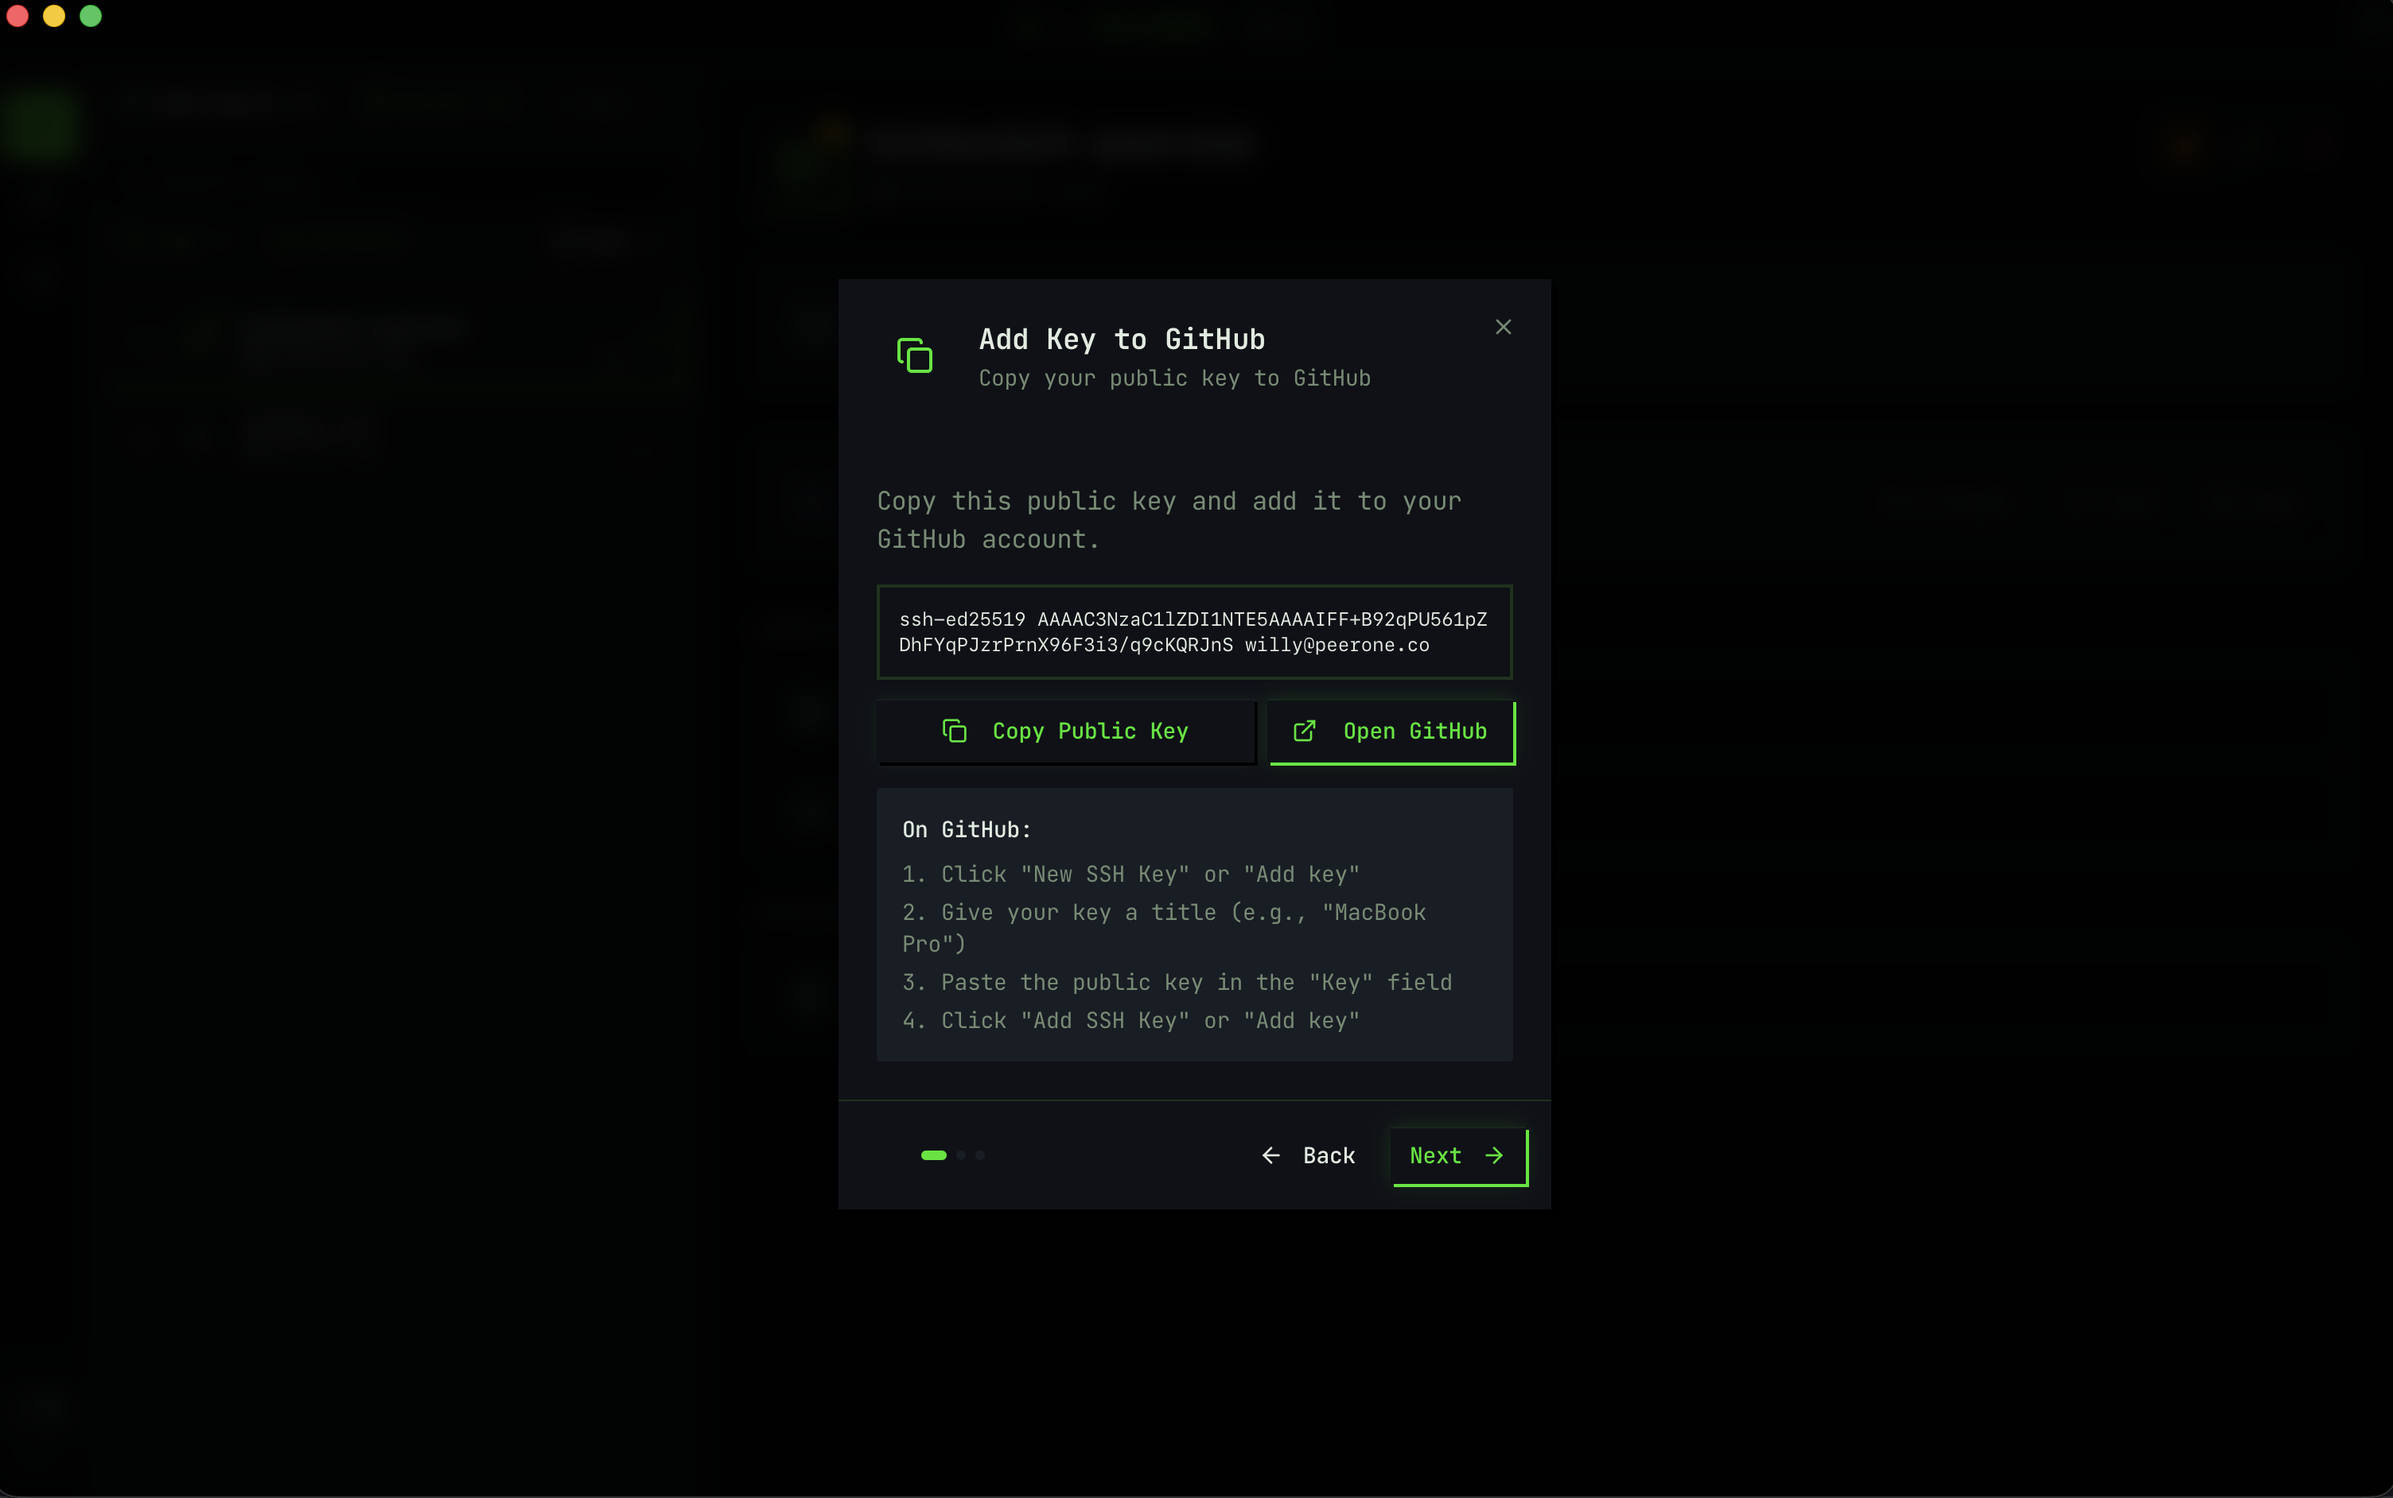
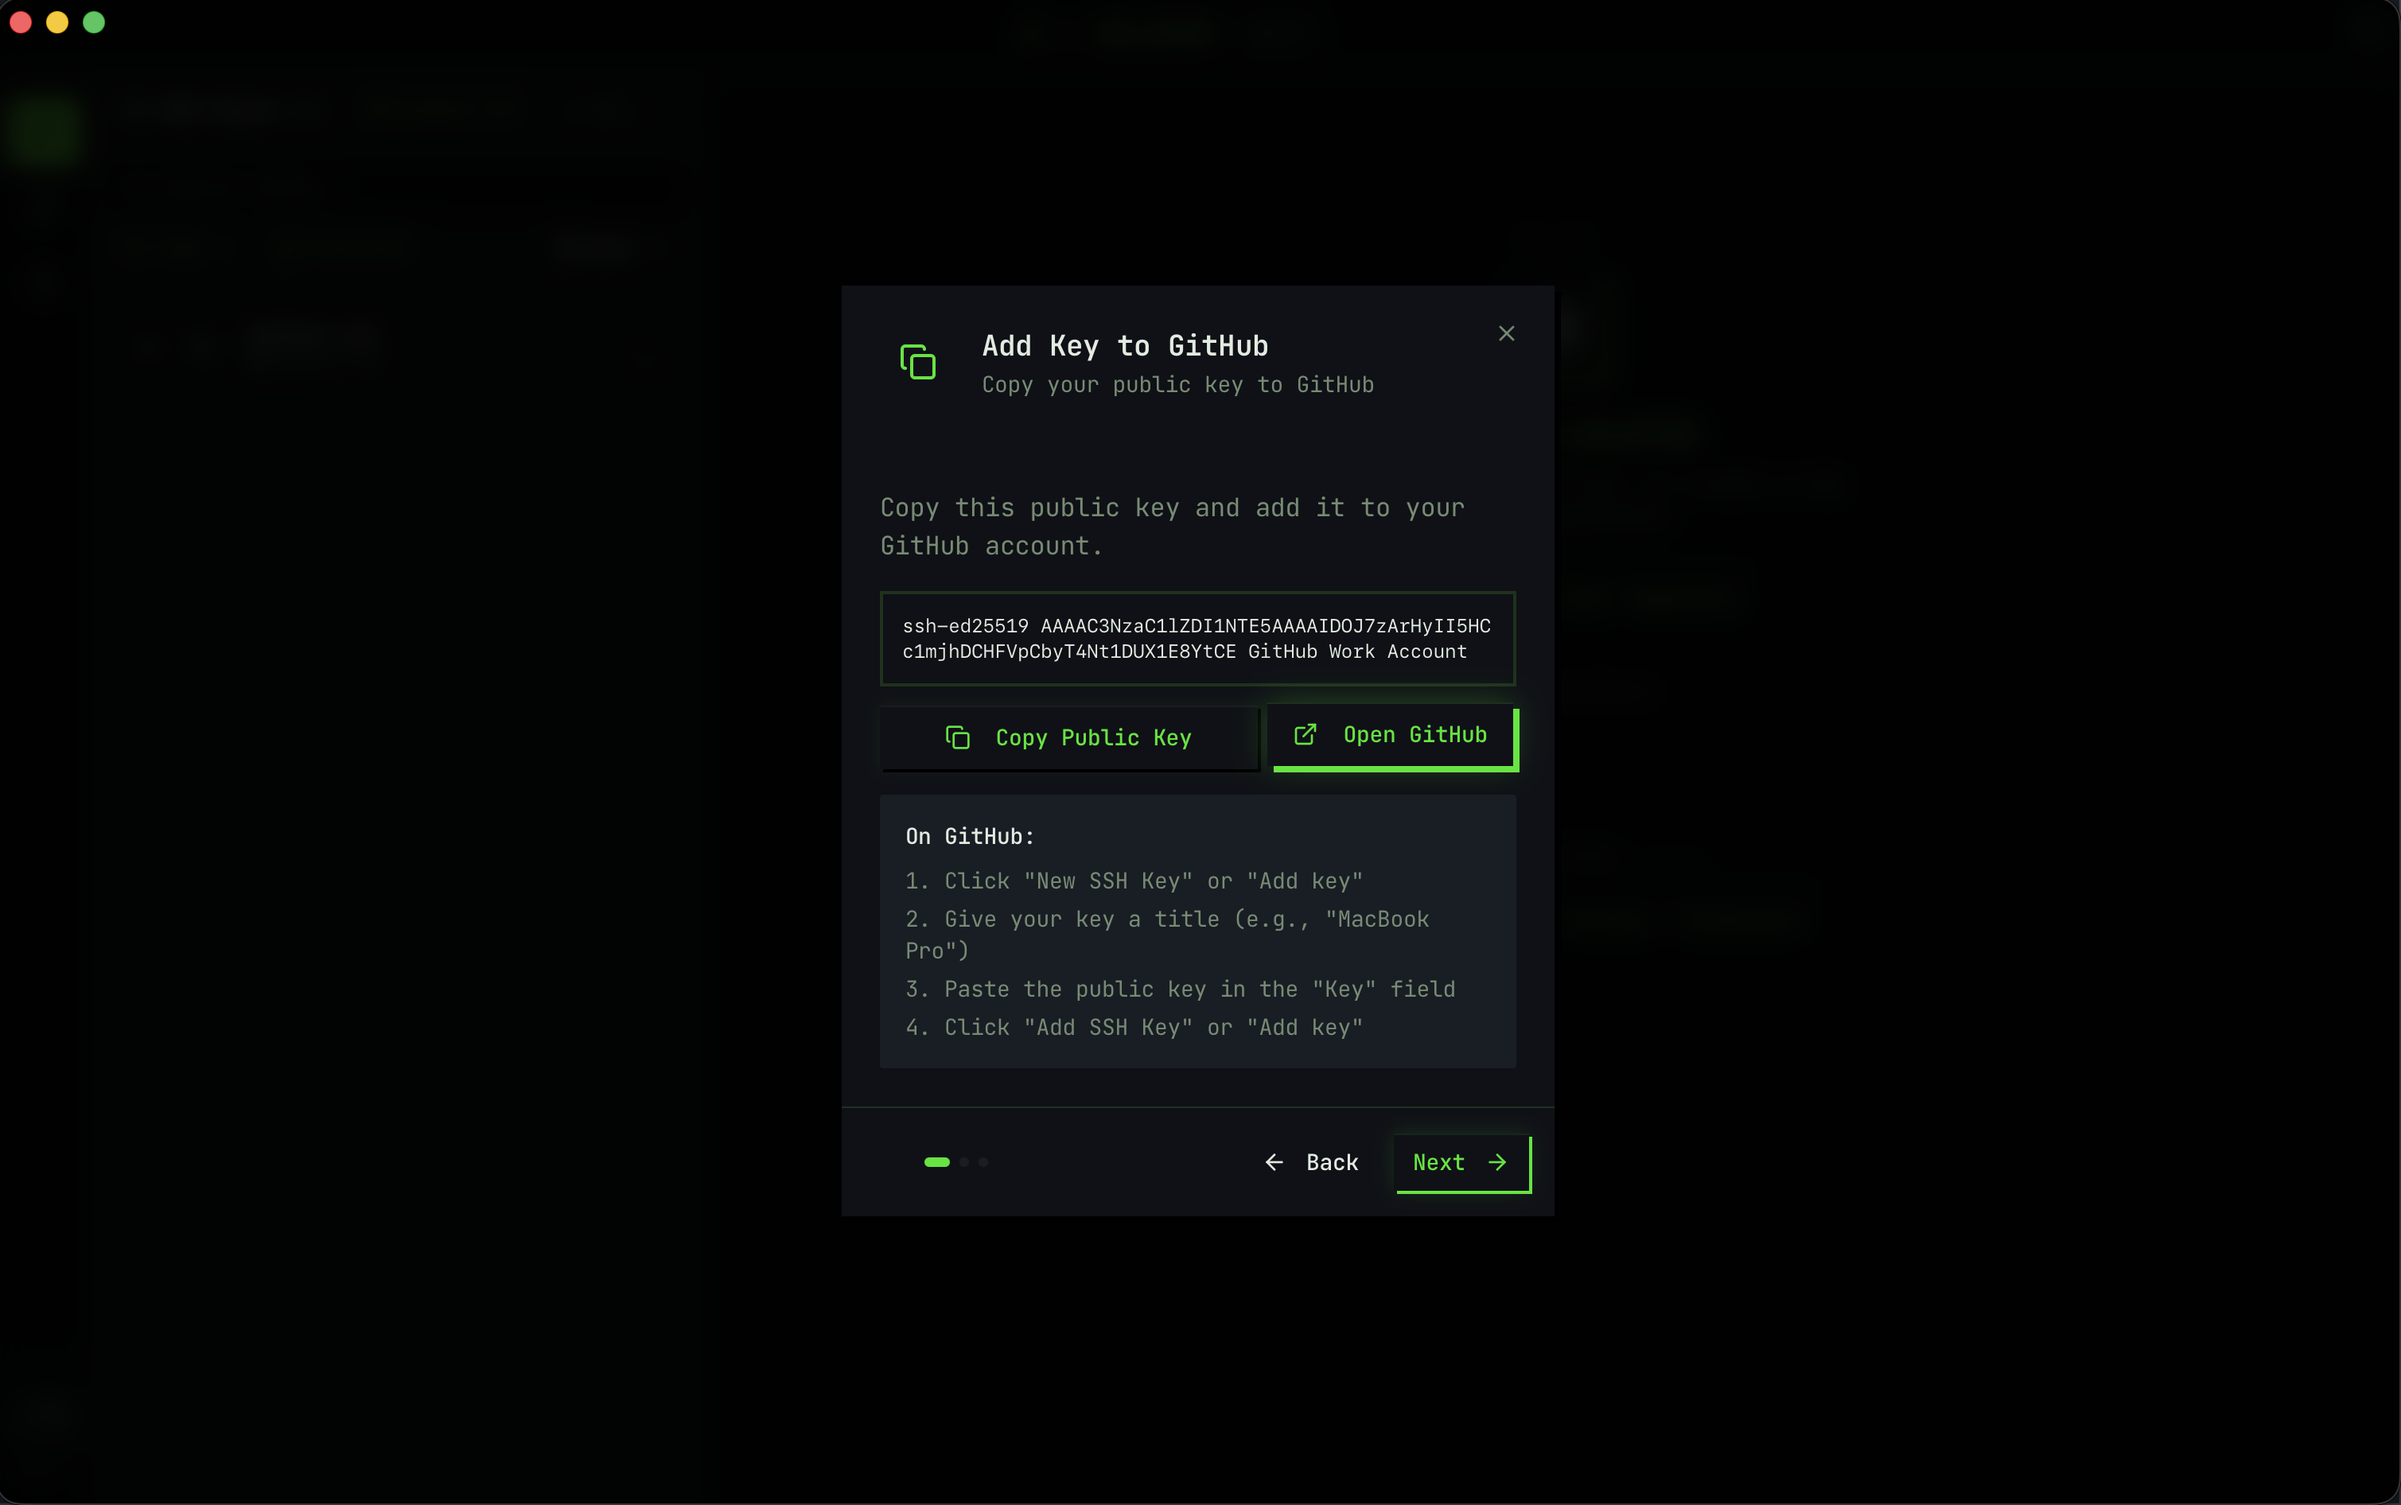
fix(windows): onboarding button requires double click to open
Skip window dragging when clicking on interactive elements (buttons)
to prevent startDragging() from capturing the mouse before click fires.

diff --git a/src/components/wizard/GitPlatformWizard.tsx b/src/components/wizard/GitPlatformWizard.tsx
@@ -191,6 +191,7 @@ export function GitPlatformWizard({
   const [isGeneratingKey, setIsGeneratingKey] = useState(false)
   const [newKeyName, setNewKeyName] = useState('')
   const [newKeyPassphrase, setNewKeyPassphrase] = useState('')
+  const [newKeyComment, setNewKeyComment] = useState('')
   const [publicKeyContent, setPublicKeyContent] = useState('')
   const [isLoadingPublicKey, setIsLoadingPublicKey] = useState(false)
   const [isCopied, setIsCopied] = useState(false)
@@ -242,16 +243,19 @@ export function GitPlatformWizard({
       setSelectedKeyName(null)
       setNewKeyName('')
       setNewKeyPassphrase('')
+      setNewKeyComment('')
       setPublicKeyContent('')
       setIsCopied(false)
       setTestResult(null)
     }
   }, [open, defaultPlatform])
 
-  // Reset account type when platform changes (after detecting existing hosts)
+  // Reset account type and key name when platform changes
   useEffect(() => {
     setAccountType(hasExistingPlatform ? 'work' : 'primary')
-  }, [hasExistingPlatform])
+    setNewKeyName('')
+    setNewKeyComment('')
+  }, [hasExistingPlatform, selectedPlatform])
 
   // Update suggested key name when it changes
   useEffect(() => {
@@ -361,10 +365,15 @@ export function GitPlatformWizard({
 
     setIsGeneratingKey(true)
     try {
+      const defaultComment =
+        `${platform.name} ${accountType === 'work' ? 'Work' : accountType === 'personal' ? 'Personal' : ''} Account`.replace(
+          /\s+/g,
+          ' '
+        )
       await onGenerateKey({
         name: newKeyName,
         type: 'ed25519',
-        comment: `GitHub ${accountType === 'work' ? 'Work' : accountType === 'personal' ? 'Personal' : ''} Account`,
+        comment: newKeyComment.trim() || defaultComment,
         passphrase: newKeyPassphrase || undefined,
       })
       setSelectedKeyName(newKeyName)
@@ -423,7 +432,7 @@ export function GitPlatformWizard({
         HostName: platform.hostname,
         User: 'git',
         IdentityFile: `~/.ssh/${selectedKeyName}`,
-        IdentitiesOnly: 'yes',
+        IdentitiesOnly: true,
       }
       await onAddHost(config)
       addToast({
@@ -457,7 +466,7 @@ export function GitPlatformWizard({
         setTestResult({
           success: false,
           message:
-            result.errorDetails?.message ||
+            result.errorDetails?.rawMessage ||
             result.output ||
             'Connection failed',
         })
@@ -627,7 +636,7 @@ export function GitPlatformWizard({
                         <p className="font-mono text-sm truncate">{key.name}</p>
                         <p className="text-xs text-muted-foreground">
                           {key.type.toUpperCase()}
-                          {key.bits ? ` ${key.bits} bits` : ''}
+                          {key.bitSize ? ` ${key.bitSize} bits` : ''}
                         </p>
                       </div>
                       {selectedKeyName === key.name && (
@@ -675,6 +684,24 @@ export function GitPlatformWizard({
                   placeholder="Leave empty for no passphrase"
                   className="w-full px-3 py-2 text-sm border-2 border-primary/20 bg-background focus:border-primary focus:outline-none"
                 />
+              </div>
+              <div className="space-y-2">
+                <label className="text-sm font-medium">
+                  Comment (optional):
+                </label>
+                <input
+                  type="text"
+                  value={newKeyComment}
+                  onChange={(e) => setNewKeyComment(e.target.value)}
+                  placeholder={`${platform.name} ${accountType === 'work' ? 'Work' : accountType === 'personal' ? 'Personal' : ''} Account`.replace(
+                    /\s+/g,
+                    ' '
+                  )}
+                  className="w-full px-3 py-2 text-sm border-2 border-primary/20 bg-background focus:border-primary focus:outline-none"
+                />
+                <p className="text-xs text-muted-foreground">
+                  Used to identify the key (e.g., account description)
+                </p>
               </div>
               <Button
                 onClick={handleGenerateNewKey}

diff --git a/src/App.tsx b/src/App.tsx
@@ -75,7 +75,7 @@ function AppContent() {
   const [isResizing, setIsResizing] = useState(false)
   const [updateDialogOpen, setUpdateDialogOpen] = useState(false)
   const [onboardingOpen, setOnboardingOpen] = useState(false)
-  const [gitHubWizardOpen, setGitHubWizardOpen] = useState(false)
+  const [gitPlatformWizardOpen, setGitPlatformWizardOpen] = useState(false)
   const resizeRef = useRef<HTMLDivElement>(null)
 
   // Updater hook
@@ -623,7 +623,7 @@ function AppContent() {
                   <Button
                     variant="outline"
                     size="sm"
-                    onClick={() => setGitHubWizardOpen(true)}
+                    onClick={() => setGitPlatformWizardOpen(true)}
                     className="h-7 gap-1 px-2 text-xs"
                   >
                     <Github className="h-3.5 w-3.5" />
@@ -750,7 +750,7 @@ function AppContent() {
                       </div>
                       <Button
                         variant="outline"
-                        onClick={() => setGitHubWizardOpen(true)}
+                        onClick={() => setGitPlatformWizardOpen(true)}
                         className="gap-2"
                       >
                         <Github className="h-4 w-4" />
@@ -904,8 +904,8 @@ function AppContent() {
 
       {/* Git Platform Wizard Dialog */}
       <GitPlatformWizard
-        open={gitHubWizardOpen}
-        onOpenChange={setGitHubWizardOpen}
+        open={gitPlatformWizardOpen}
+        onOpenChange={setGitPlatformWizardOpen}
         hosts={hosts}
         keys={keys}
         onAddHost={addHost}

diff --git a/src/components/layout/TitleBar.tsx b/src/components/layout/TitleBar.tsx
@@ -20,6 +20,10 @@ export function TitleBar({ onHelpClick }: TitleBarProps) {
     // Only handle left mouse button
     if (e.buttons !== 1) return
 
+    // Don't start dragging if clicking on interactive elements
+    const target = e.target as HTMLElement
+    if (target.closest('button')) return
+
     if (e.detail === 2) {
       // Double click to toggle maximize
       await getCurrentWindow().toggleMaximize()

diff --git a/src/components/wizard/index.ts b/src/components/wizard/index.ts
@@ -1,4 +1,1 @@
-export {
-  GitPlatformWizard,
-  GitPlatformWizard as GitHubWizard,
-} from './GitHubWizard'
+export { GitPlatformWizard } from './GitPlatformWizard'
